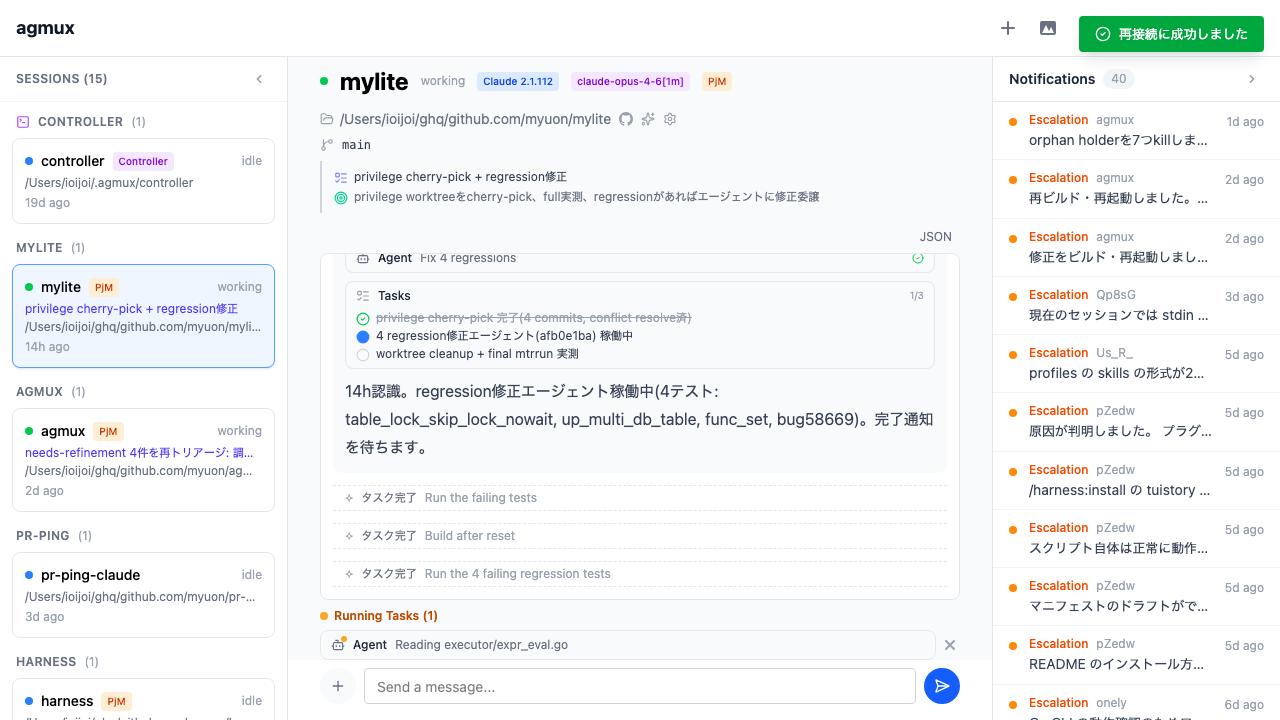
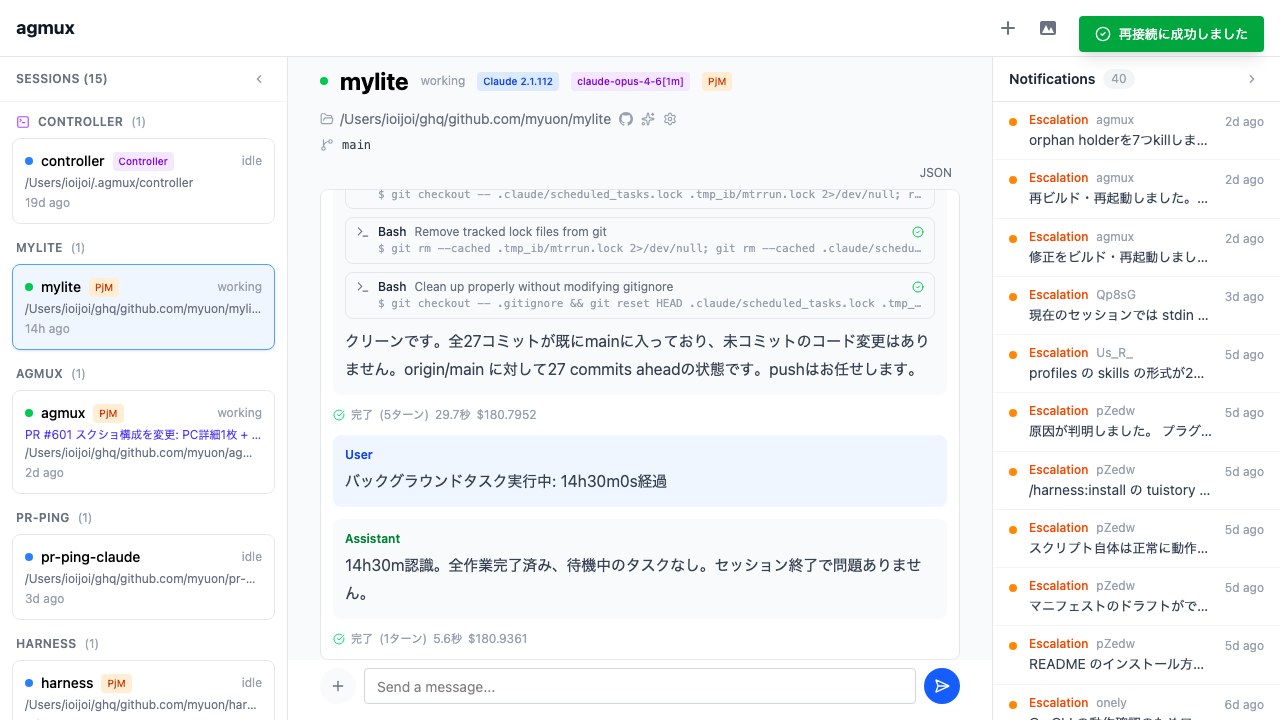
chore: スクリーンショット構成をPC詳細+スマホ2枚に変更
- PC版ダッシュボード画像を削除
- PC版セッション詳細を撮り直し (1280x720)
- スマホ版セッション一覧を追加 (375x812)
- スマホ版セッション詳細を追加 (375x812)
- README.mdにモバイル2枚を横並びテーブルで追加

diff --git a/README.md b/README.md
@@ -5,13 +5,15 @@
 
 ## スクリーンショット
 
-### ダッシュボード
-
-![Dashboard](docs/screenshot-dashboard.png)
-
-### セッション詳細 (Stream Mode)
+### セッション詳細 (PC)
 
 ![Session Detail](docs/screenshot-session-detail.png)
+
+### モバイル表示
+
+| セッション一覧 | セッション詳細 |
+|---|---|
+| ![Mobile Dashboard](docs/screenshot-mobile-dashboard.png) | ![Mobile Session Detail](docs/screenshot-mobile-session-detail.png) |
 
 ## 主な機能
 
